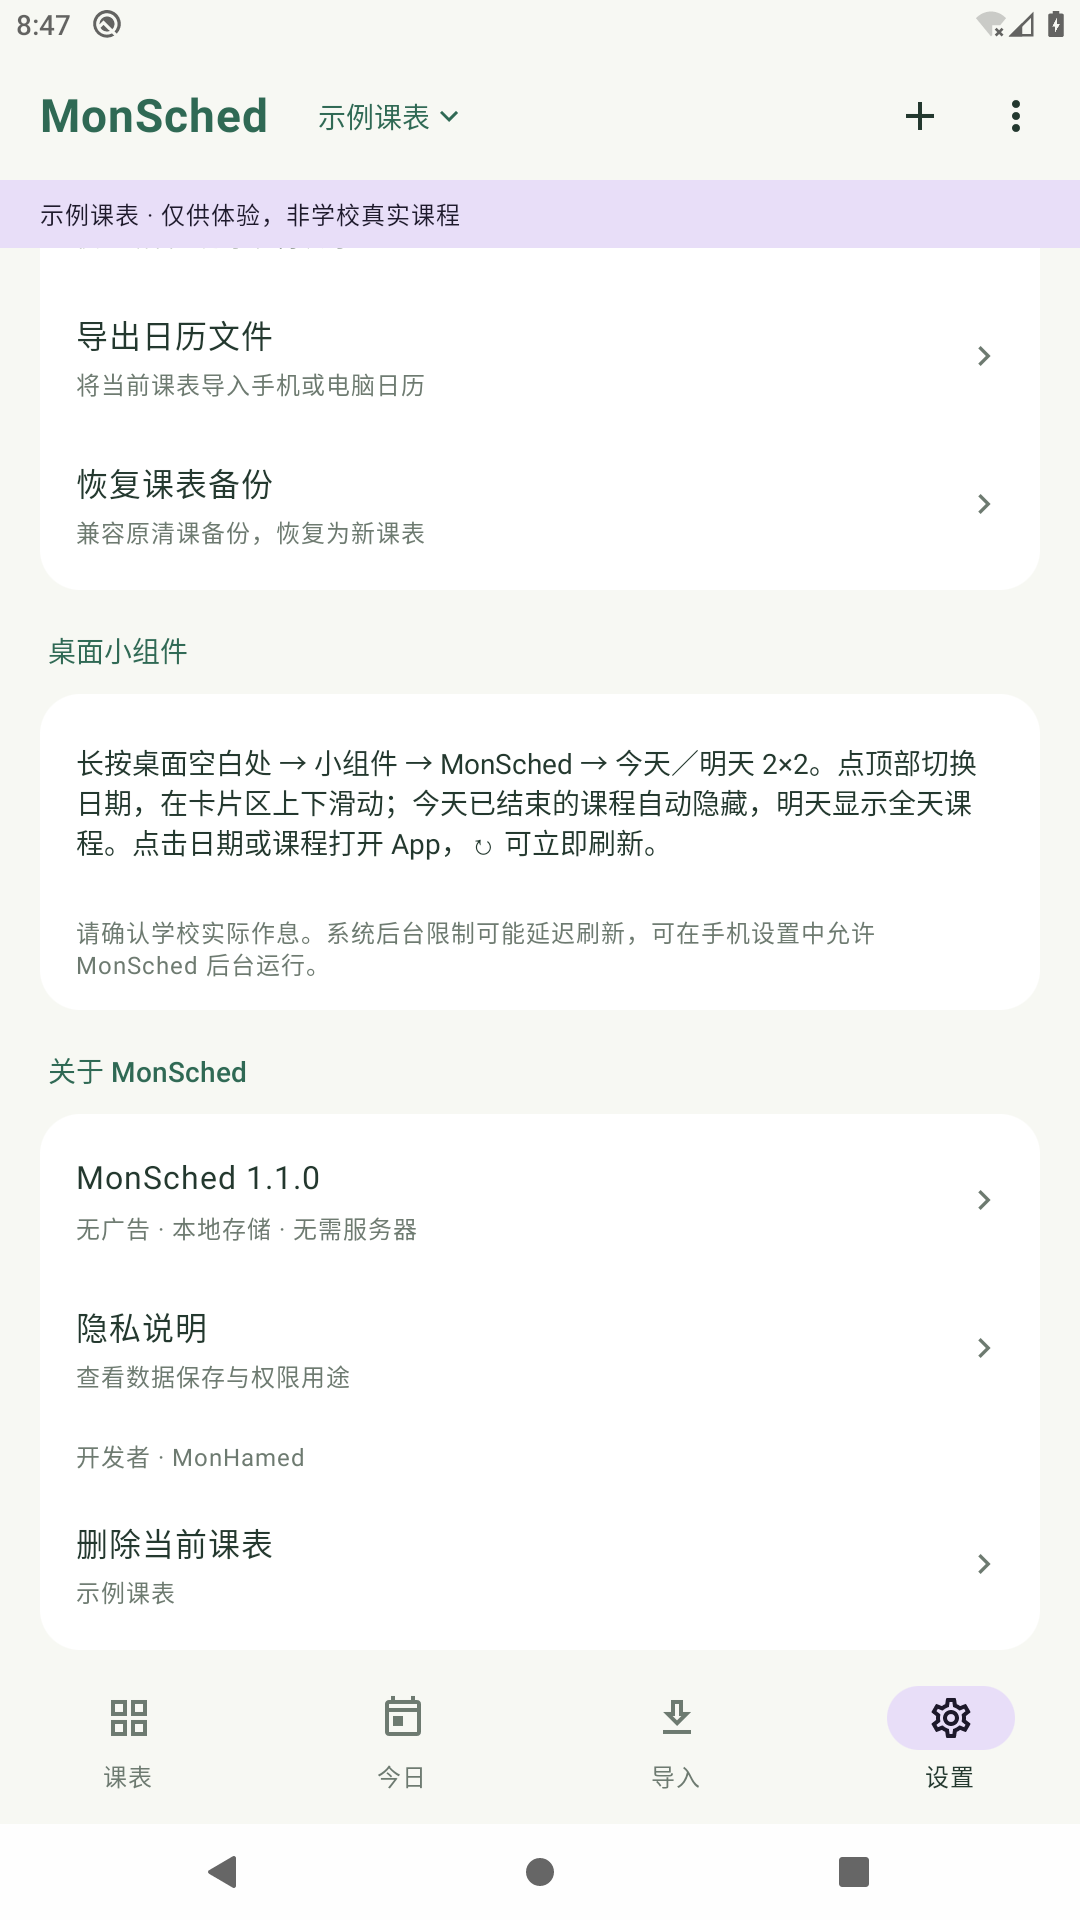
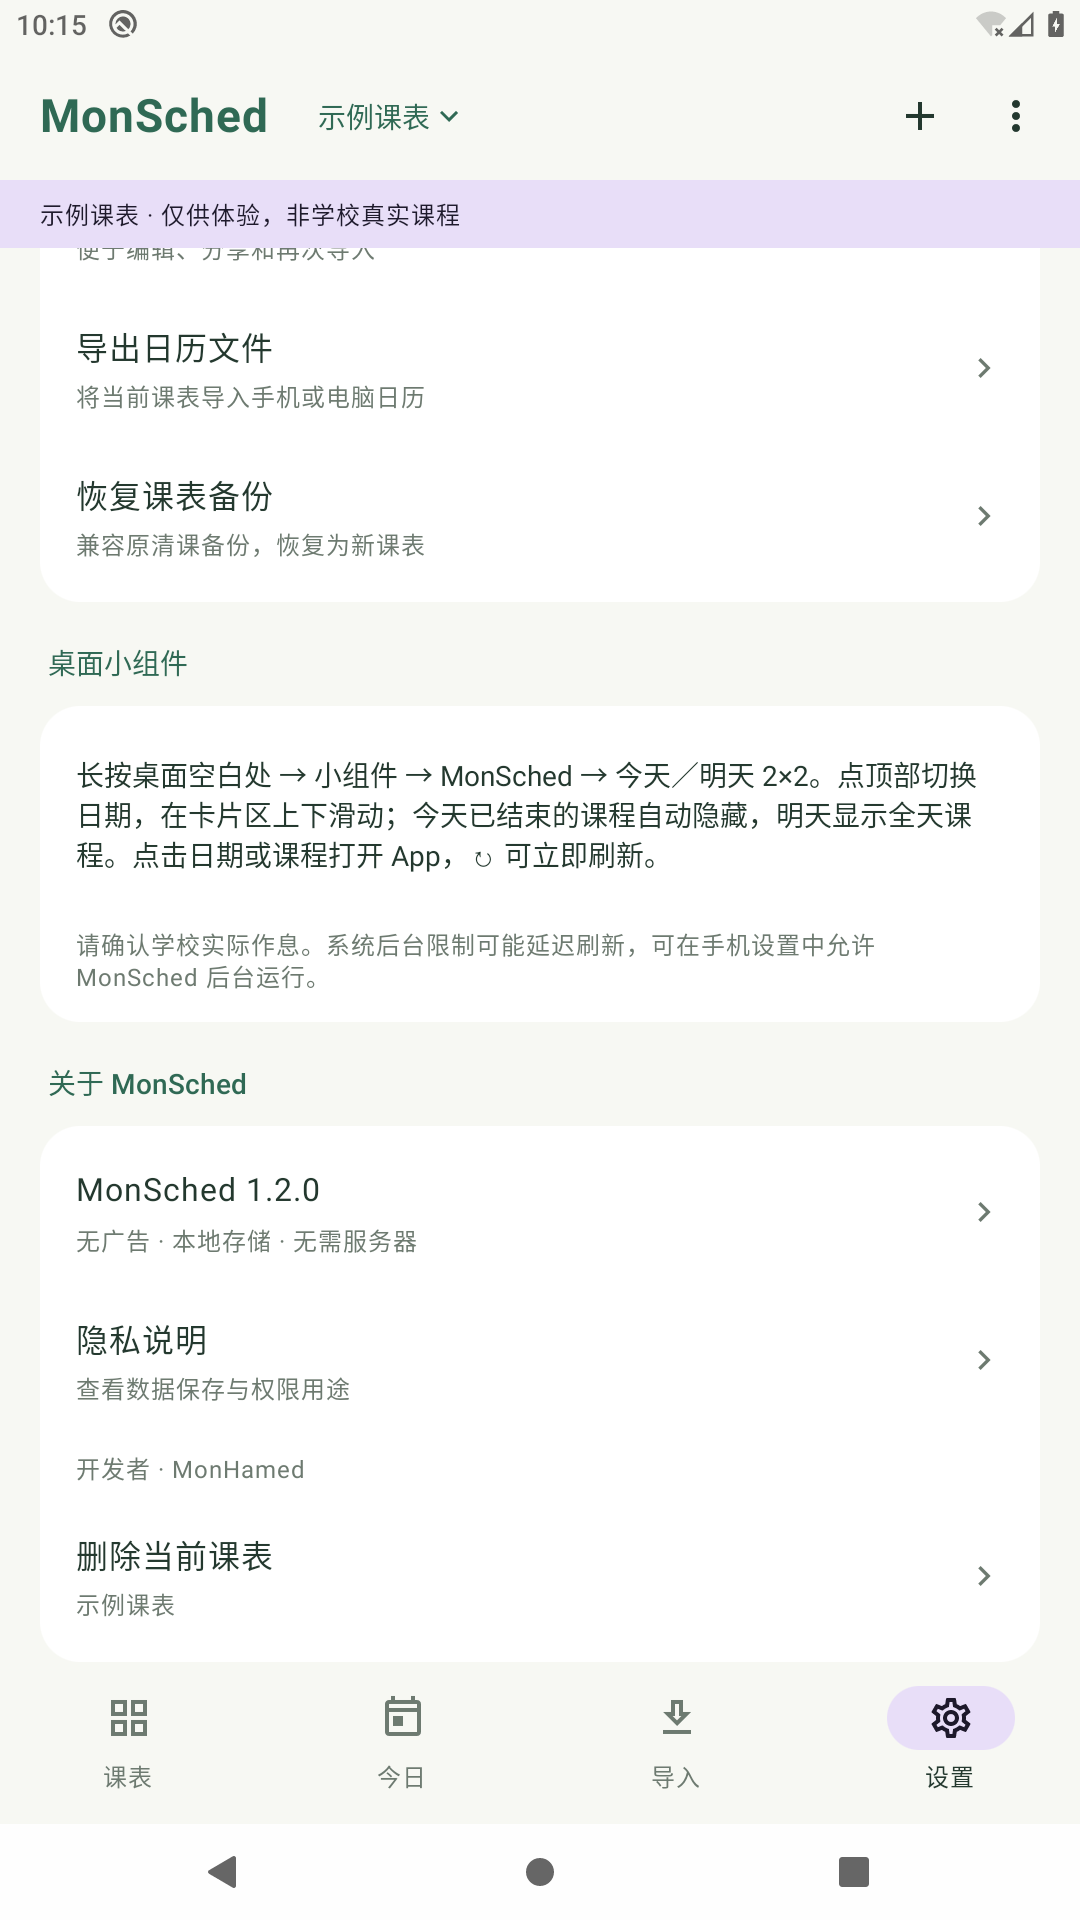
Document signed upgrade and device import validation

diff --git a/VALIDATION.md b/VALIDATION.md
@@ -1,54 +1,37 @@
 # MonSched 1.2.0 验证记录
 
-## 本版本构建与解析
-
-- 38 项 JVM 单元测试全部通过：19 项原有课程表/导入/备份/提醒测试、7 项组件边界测试、12 项通用导入与学校入口测试。
-- 新增覆盖英文 CSV 字段、分离节次、强智 JSON/HTML、明确列名的 HTML 列表、XLSX 字符串/稀疏列/公式拒绝、ICS 时区与重复规则/排除日期/精确作息匹配/导出再导入，以及不同正方部署前缀与 HTTP 选择。
-- Android Lint：0 错误，22 警告（依赖版本、HTTP 兼容配置、图标主题与现有平台配置提示）。
-- 调试版、Android 测试 APK 和 R8/资源压缩的发布版构建成功；APK 签名与 ZIP 对齐通过。
-- MonSched 1.2.0，versionCode 3，包名 `cn.qingke.schedule`，Android 8.0（API 26）及以上，编译/目标 SDK 35。
-- APK 字节数：1760769。
[2 lines of base64/hex data omitted]
-
-1.2.0 的 Android 运行与覆盖升级记录将在发布 APK 前补充。以下为前一版的已完成验证，区分版本以免误读。
-
----
-
-# MonSched 1.1.0 验证记录
-
-发布 APK 在 Android 10（API 29）模拟器中实际安装、覆盖升级并操作。组件数据使用明确标注的合成课程。
+发布 APK 在 Android 10（API 29）模拟器中实际安装、覆盖升级和操作。所有课程、学校配置与页面响应均为合成样本，不包含学生账号或真实个人课表。
 
 ## 自动化检查
 
-- 26 项 JVM 单元测试通过：原有 19 项解析、备份、日历、提醒和课表布局测试，以及新增的 7 项组件测试。
-- 组件单元测试覆盖四门课程的排序与逐个隐藏、连排节次的最后下课时间、明天跨周与单双周、午夜切日、学期边界、作息缺失／无效时保留课程卡片、下次刷新时间和课表隔离。
-- 3 项 Android 测试通过，运行结果 `OK (3 tests)`，耗时 288.602 秒。
-- 界面测试检查新增／修改课程的持久化、示例课表与单双周切换、作息设置，以及 MonSched 1.1.0 和 MonHamed 署名。
-- WebView 测试挂载真实视图，使用合成正方接口响应，检查所选学期及登录字段不被提取。
-- 组件测试使用真实 AppWidgetHost 和远程列表服务，在 160×160 dp 的宿主方框中加载四门课，确认需要滚动且能到达第四门课，切换今天和明天；关闭课前提醒后，等待实际系统下课闹钟触发，列表由四张卡片变为三张，同时数据库仍保留全部五条今天／明天课程。
-- Android Lint：0 错误。发布版构建与资源压缩通过。
+- 38 项 JVM 单元测试全部通过：19 项原有课表/导入/备份/提醒测试，7 项组件边界测试，12 项通用导入与学校入口测试。
+- 新增覆盖英文 CSV 字段、分离节次、强智 JSON/HTML、明确列名的 HTML 列表、XLSX 字符串/稀疏列/公式拒绝、ICS 时区与重复规则/排除日期/精确作息匹配/导出再导入，以及不同正方部署前缀与 HTTP 选择。
+- 4 项 Android 测试全部通过：`OK (4 tests)`，耗时 272.263 秒。
+- 界面测试检查新增/修改课程持久化、学校名称/入口与强智类型配置、示例课表、单双周切换、作息设置和 MonHamed 署名。
+- 真实 WebView 测试验证不同域名与部署前缀下的正方请求地址、所选学期和登录字段排除；另一个测试读取同源框架中的英文列名课程列表，并确认通用模式不会调用正方接口。
+- 真实 AppWidgetHost 在 160×160 dp 方框中加载四门课，确认需要滚动且可到达第四门，切换今天与明天；关闭课前提醒后等待实际系统下课闹钟，列表由四张变三张，数据库仍保留全部五条今天/明天记录。
+- 组件边界测试涵盖连排节次最后下课时间、明天跨周/单双周、午夜切日、学期边界、无效作息保留卡片、刷新时点及课表隔离。
+- Android Lint：0 错误、22 警告（依赖版本、HTTP 兼容配置、图标主题和现有平台配置提示）。调试版、测试 APK 和 R8/资源压缩发布版构建成功。
 
-## 发布版与升级
+## 签名发布版
 
-- 使用初版清课 1.0.0 的同一签名证书和包名，版本号提升至 1.1.0（versionCode 2）。
-- 先安装初版、创建示例课表，再覆盖安装新版。升级前后数据库中的全部课表、课程、作息记录和原 preferences 文件完全一致。
-- 发布版设置页实际显示 MonSched 1.1.0 与小字号的「开发者 · MonHamed」。
-- 签名且经过 R8 压缩的发布版通过独立 AppWidgetHost 实测：普通触屏上下滚动能到达第四门课程，点击明天和今天正确替换远程课程列表。未发现 AndroidRuntime 或 RemoteViewsAdapter 错误。
-- APK Signature Scheme v2 和 ZIP 对齐校验通过，签名密钥为 RSA 3072 位。
+- 先安装 MonSched 1.1.0，创建六条合成课程，再覆盖安装 1.2.0。升级前后全部课表、课程和作息记录完全一致，原有 preferences 键值保留，新增学校连接设置迁移为原有青岛工学院入口。
+- 原清课 1.0.0 → MonSched 1.1.0 的同签名升级已在前一版测试；当前版本继续沿用同一包名、证书及 Room 数据库版本。
+- 发布版设置页实际显示 MonSched 1.2.0 和小字号「开发者 · MonHamed」。
+- 经 R8 压缩的签名 APK 通过真实系统文件选择器打开 Excel 模板，预览两条课程并追加保存；数据库由六条增至八条，原六条记录保留。
+- APK Signature Scheme v2、ZIP 对齐校验通过；签名密钥 RSA 3072 位。
 
 ## 版本与校验
 
-- 应用：MonSched 1.1.0
-- 包名：`cn.qingke.schedule`（沿用初版以保留数据）
-- 支持：Android 8.0（API 26）及以上
-- 编译与目标 SDK：35
-- APK 字节数：1744205
[2 lines of base64/hex data omitted]
+- 应用：MonSched 1.2.0，versionCode 3。
+- 包名：`cn.qingke.schedule`，沿用初版以保留数据。
+- 支持：Android 8.0（API 26）及以上；编译与目标 SDK：35。
+- APK 字节数：1760769。
[2 lines of base64/hex data omitted]
 
 ## 验证范围
 
-Android 12 及以上的 2×2 默认格数、可选「闹钟和提醒」授权入口和授权后的精确刷新分支已按平台 API 实现并经过 Lint 检查；本次实际运行设备为 API 29，未覆盖 Android 12 及以上真机授权和厂商省电策略。桌面网格决定组件的实际尺寸，系统后台限制仍可能延迟刷新。
+已检查青岛工学院公开登录页及官网入口。没有学生账号，未完成该校或其他学校真实账号的端到端登录导入验证。正方、强智及其他系统的解析范围以 README 兼容表为准；学校定制页面仍可能需要适配。
 
-学校公开登录页及官网入口已确认。没有学生账号，因此未完成青岛工学院真实账户的端到端导入验证；学校登录后的页面如有额外定制，仍需按实测适配。请先核对开学日期和学校实际作息，再使用今日课程、组件或提醒。
+Android 12 及以上的 2×2 默认格数、可选「闹钟和提醒」授权入口与精确刷新分支按平台 API 实现并经过 Lint 检查；本次实际设备为 API 29，未覆盖 Android 12 及以上真机授权和厂商省电策略。桌面网格决定实际大小，系统后台限制可能延迟刷新。使用前请确认第一周周一和真实作息。

diff --git a/README.md b/README.md
@@ -33,6 +33,10 @@
 
 解析已通过合成样本与真实 WebView 测试，不代表全部学校都已完成实际账号登录验证。没有提供学生账号，青岛工学院也未进行真实账户端到端测试。学校登录后的页面或统一认证存在额外差异时，可先用文件导入，并提交去除个人信息的样本以便继续适配。
 
+| 学校与系统配置 | Excel 导入预览 |
+| --- | --- |
+| <img src="docs/monsched-school-options.png" width="230" alt="可选教务系统与自定义入口" /> | <img src="docs/monsched-xlsx-preview.png" width="230" alt="XLSX 导入先预览后保存" /> |
+
 ## 已实现
 
 - 周视图、周次选择、左右切换和滑动切周，自动计算当前周。
